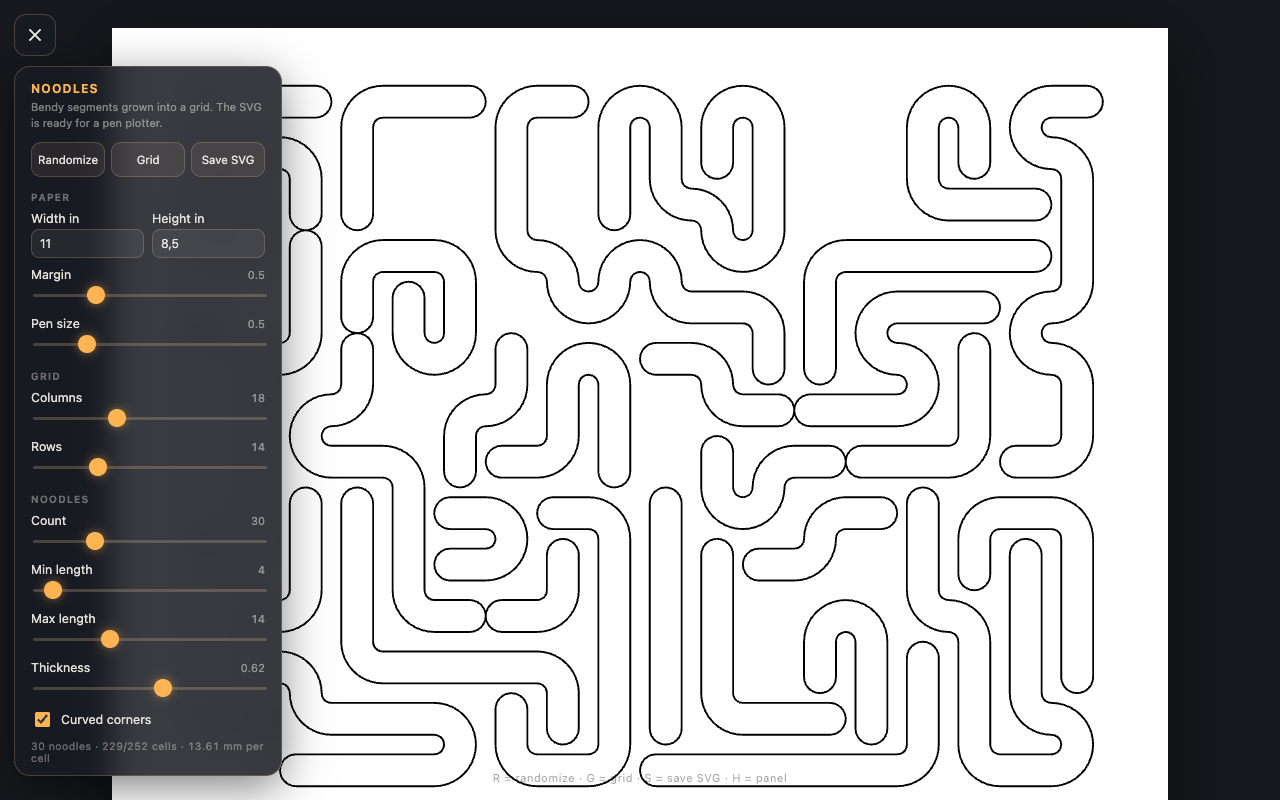
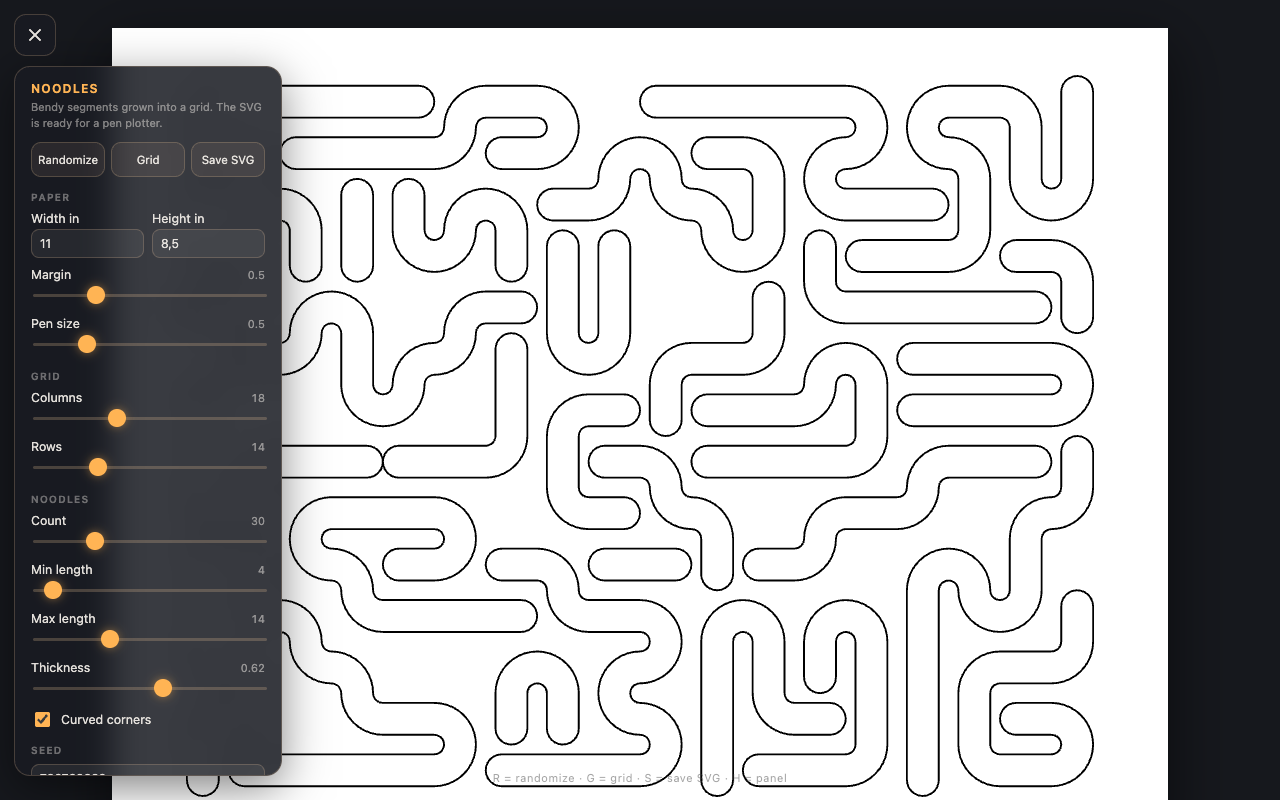
Seed einbauen: Zeichnungen sind reproduzierbar, Einstellungen im SVG-Kommentar

diff --git a/index.html b/index.html
@@ -164,6 +164,9 @@
   <div class="row"><label>Thickness<span class="val" id="v_thick"></span></label><input type="range" id="thick" min=".2" max=".95" step=".01" value=".62"></div>
   <label class="check"><input type="checkbox" id="curves" checked> Curved corners</label>
 
+  <h2>Seed</h2>
+  <div class="row"><input type="number" id="seed" value="1" min="0" step="1"></div>
+
   <div id="stats"></div>
 </div>
 
@@ -264,11 +267,23 @@
 
   // ---- growing ------------------------------------------------------------
 
-  function grow(gw, gh, num, minLen, maxLen) {
+  // A seeded generator so a plot can be reproduced later. mulberry32.
+  function rngFrom(seed) {
+    var a = seed >>> 0;
+    return function () {
+      a = a + 0x6D2B79F5 >>> 0;
+      var t = Math.imul(a ^ a >>> 15, 1 | a);
+      t = t + Math.imul(t ^ t >>> 7, 61 | t) ^ t;
+      return ((t ^ t >>> 14) >>> 0) / 4294967296;
+    };
+  }
+
+  function grow(gw, gh, num, minLen, maxLen, seed) {
+    var rnd = rngFrom(seed);
     var occ = new Uint8Array(gw * gh), order = [], i;
     for (i = 0; i < gw * gh; i++) order.push(i);
     for (i = order.length - 1; i > 0; i--) {
-      var j = Math.floor(Math.random() * (i + 1)), t = order[i];
+      var j = Math.floor(rnd() * (i + 1)), t = order[i];
       order[i] = order[j]; order[j] = t;
     }
 
@@ -286,7 +301,7 @@
       var start = order[k];
       if (occ[start]) continue;
       occ[start] = 1;
-      var target = minLen + Math.floor(Math.random() * (maxLen - minLen + 1));
+      var target = minLen + Math.floor(rnd() * (maxLen - minLen + 1));
       var cells = [start], head = start, tail = start, atHead = true;
 
       while (cells.length < target) {
@@ -296,7 +311,7 @@
           atHead = false;
           continue;
         }
-        var next = n[Math.floor(Math.random() * n.length)];
+        var next = n[Math.floor(rnd() * n.length)];
         occ[next] = 1;
         if (atHead) { cells.push(next); head = next; }
         else { cells.unshift(next); tail = next; }
@@ -321,7 +336,8 @@
       gw: +g("gw").value, gh: +g("gh").value,
       num: +g("num").value,
       minLen: Math.min(minLen, maxLen), maxLen: Math.max(minLen, maxLen),
-      thick: +g("thick").value, curves: g("curves").checked
+      thick: +g("thick").value, curves: g("curves").checked,
+      seed: +g("seed").value || 0
     };
   }
 
@@ -335,7 +351,7 @@
     var w = s * c.thick;
     var penPx = c.pen / 25.4 * DPI;
 
-    if (regrow || !current) current = grow(c.gw, c.gh, c.num, c.minLen, c.maxLen);
+    if (regrow || !current) current = grow(c.gw, c.gh, c.num, c.minLen, c.maxLen, c.seed);
 
     var parts = [];
     if (showGrid) {
@@ -356,7 +372,7 @@
     var cellsUsed = current.reduce(function (a, n) { return a + n.length; }, 0);
     document.getElementById("stats").textContent =
       current.length + " noodles · " + cellsUsed + "/" + (c.gw * c.gh) + " cells · " +
-      fmt(s / DPI * 25.4) + " mm per cell";
+      fmt(s / DPI * 25.4) + " mm per cell · seed " + c.seed;
   }
 
   // ---- panel --------------------------------------------------------------
@@ -384,7 +400,12 @@
   });
   document.getElementById("curves").addEventListener("change", function () { draw(false); });
 
-  document.getElementById("btnRandom").addEventListener("click", function () { draw(true); });
+  function reseed() {
+    document.getElementById("seed").value = Math.floor(Math.random() * 1e9);
+    draw(true);
+  }
+  document.getElementById("seed").addEventListener("input", function () { draw(true); });
+  document.getElementById("btnRandom").addEventListener("click", reseed);
   document.getElementById("btnGrid").addEventListener("click", function () { showGrid = !showGrid; draw(false); });
   document.getElementById("btnSave").addEventListener("click", save);
 
@@ -395,10 +416,13 @@
     if (g) g.remove();
     clone.setAttribute("width", c.pw + "in");
     clone.setAttribute("height", c.ph + "in");
-    var blob = new Blob(['<?xml version="1.0" encoding="UTF-8"?>\n' + clone.outerHTML], { type: "image/svg+xml" });
+    // The settings ride along in a comment, so any plot can be regenerated.
+    var head = '<?xml version="1.0" encoding="UTF-8"?>\n<!-- generative-noodles ' +
+               JSON.stringify(c) + ' -->\n';
+    var blob = new Blob([head + clone.outerHTML], { type: "image/svg+xml" });
     var a = document.createElement("a");
     a.href = URL.createObjectURL(blob);
-    a.download = "noodles-" + c.gw + "x" + c.gh + ".svg";
+    a.download = "noodles-" + c.seed + ".svg";
     a.click();
     setTimeout(function () { URL.revokeObjectURL(a.href); }, 1000);
   }
@@ -406,12 +430,13 @@
   addEventListener("keydown", function (e) {
     if (e.target.tagName === "INPUT") return;
     var k = e.key.toLowerCase();
-    if (k === "r") draw(true);
+    if (k === "r") reseed();
     else if (k === "g") { showGrid = !showGrid; draw(false); }
     else if (k === "s") { e.preventDefault(); save(); }
     else if (k === "h") setPanel(panel.hasAttribute("hidden"));
   });
 
+  document.getElementById("seed").value = Math.floor(Math.random() * 1e9);
   draw(true);
 
   // ---- self check: index.html?test=1 --------------------------------------
@@ -440,12 +465,17 @@
     eq(Math.max.apply(null, ys), 80, "bottom of the noodle");
 
     // Growing never puts two noodles in one cell.
-    var ns = grow(12, 12, 40, 3, 10), seen = {};
+    var ns = grow(12, 12, 40, 3, 10, 42), seen = {};
     ns.forEach(function (n) { n.forEach(function (c) {
       if (seen[c]) throw new Error("cell " + c + " used twice");
       seen[c] = 1;
     }); });
     ok++;
+    // Same seed, same noodles.
+    eq(JSON.stringify(grow(12, 12, 40, 3, 10, 42)) === JSON.stringify(ns) ? 1 : 0, 1,
+       "the seed reproduces a run");
+    eq(JSON.stringify(grow(12, 12, 40, 3, 10, 43)) === JSON.stringify(ns) ? 0 : 1, 1,
+       "a different seed gives a different run");
     document.title = "self check passed, " + ok + " assertions";
   } catch (err) { document.title = "SELF CHECK FAILED: " + err.message; }
 })();

diff --git a/README.md b/README.md
@@ -3,10 +3,11 @@
 Bendy noodle segments grown into a grid, drawn as SVG for pen plotters. Runs in the
 browser, no build step and no dependencies.
 
-![Screenshot](screenshot.png)
+A web rewrite of [cadin/generative-noodles](https://github.com/cadin/generative-noodles)
+by [Cadin Batrack](https://github.com/cadin), which is a Processing sketch. Same idea,
+without Processing. All credit for the concept goes there.
 
-A web rewrite of [cadin/generative-noodles](https://github.com/cadin/generative-noodles),
-which is a Processing sketch. Same idea, no Processing needed.
+![Screenshot](screenshot.png)
 
 ## Usage
 
@@ -14,13 +15,16 @@ Open `index.html` in a browser, or use the hosted version.
 
 **`R`** randomize · **`G`** toggle the grid · **`S`** save an SVG · **`H`** toggle the panel
 
-The saved SVG carries its real paper size in inches, so a plotter or a print dialog
-picks up the right dimensions without scaling.
+Every drawing comes from a seed. Type a seed back into the panel and the same noodles
+return, so a plot you liked is never lost. The saved SVG carries its real paper size in
+inches, so a plotter or a print dialog picks up the right dimensions without scaling,
+and all settings ride along in a comment at the top of the file.
 
 ## How it works
 
 Noodles are self-avoiding walks over a grid: pick a free cell, grow into a random free
-neighbour, and when the head gets stuck, keep growing from the tail instead.
+neighbour, and when the head gets stuck, keep growing from the tail instead. The random
+numbers come from a seeded generator, which is what makes a drawing reproducible.
 
 The grid keeps every turn at 90 degrees, so the outline needs no offset curve maths.
 A straight cell is two parallel lines, a corner is two concentric quarter arcs whose
